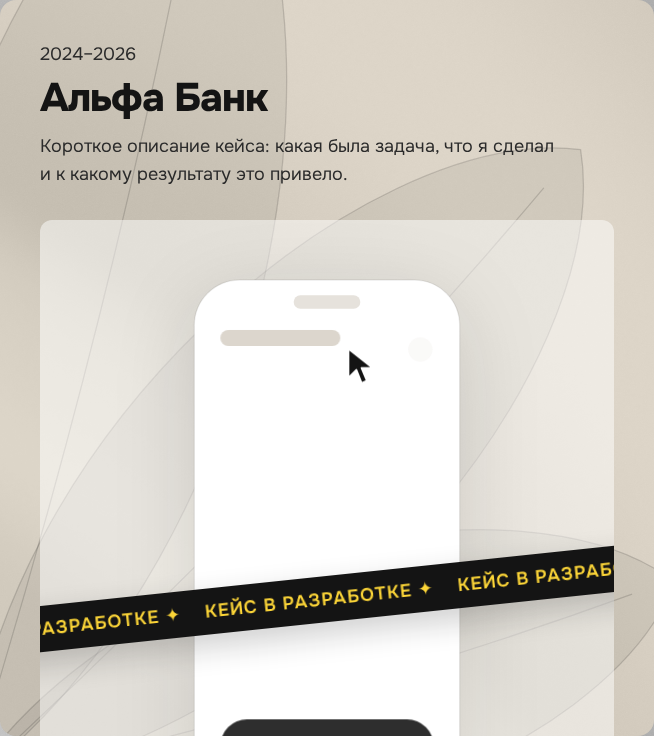
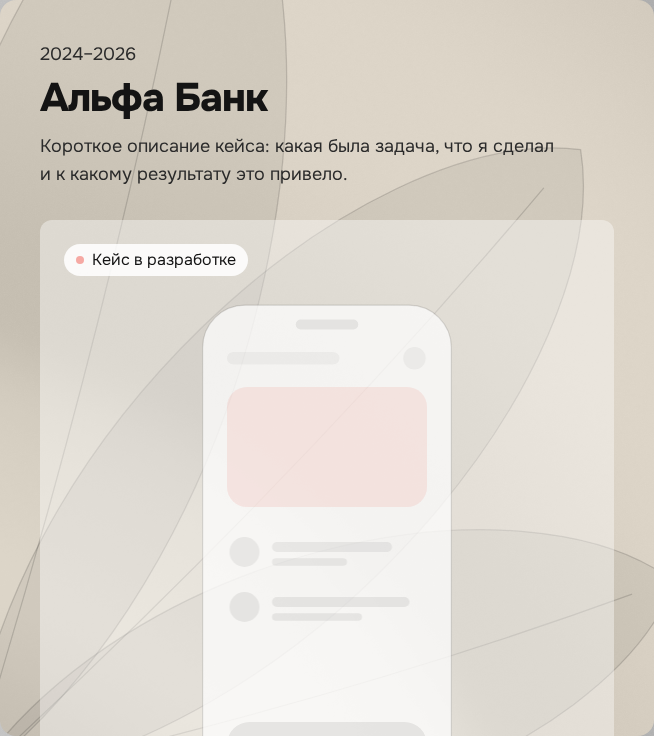
Заглушка плитки Альфа Банка скромнее; жёлтый маркер в «Обо мне»; Quantori: «Все столбцы синхронизированы»
Claude-Session: https://claude.ai/code/session_01DzwkKU7ghLdatqJxsHswd1

Changed region(s): [[0.0612, 0.3125, 0.948, 1.0]]

diff --git a/CLAUDE.md b/CLAUDE.md
@@ -194,16 +194,16 @@ pnpm deploy:yandex
 - Hero: заголовок «Продуктовый дизайнер и многое другое» / «Product designer and much more» — **первое слово перекидное** (проп `flip` у `Hero`, слова — `home.intro.flip` в `ui.ts` через «|»: RU Продуктовый → Senior UI/UX → Ведущий → Lead → Senior Product, EN Product → Senior UI/UX → Lead → Senior Product): каждые 2.6с слово переворачивается вверх гранью куба (`rotateX`, 0.7с), новое приходит снизу, ширина места под слово плавно подстраивается; «и многое другое» — всегда отдельной второй строкой (`.hero__title-line`), «дизайнер» — в первой строке рядом со словом, а если самый длинный вариант первой строки не помещается (1440, телефон) — «дизайнер» тоже своей строкой (`hero__title--stack`, ставит скрипт), поэтому строки не прыгают; высота заголовка — по самому длинному варианту (текст ниже не прыгает); для читалок в `h1` — исходное слово; при reduced motion — стоит) + подпись «Проектирую архитектуру и ежедневно работаю над продуктовыми задачами… от идеи и исследования до дизайна, прототипирования и кода» (`home.intro.*` в `ui.ts`; на мобиле блок hero `min-height: 100dvh` с отступом под шапку — если контент выше экрана, растёт вниз, а не заезжает под шапку), тени — одно семейство, интенсивность убавлена на 30%, затем ещё на 20%: заголовок `--hero-text-shadow` (0 4px 16px, чёрный 14.4% — потом +20%), подпись `--hero-lead-shadow` (та же, трижды по +20% — 20.8%), у чипсов тени нет (убрана по просьбе), портрет `--hero-portrait-shadow` (drop-shadow 0 10px 28px, 12%, по контуру круга и головы), логотип и планета в шапке — своя маленькая `--header-shadow` (drop-shadow 0 1px 3px, 16%, на всей прозрачной шапке), под подписью — чипсы с направлениями работы (`home.intro.chip.1–6`: Продуктовый дизайн, Построение процессов вокруг дизайна, Внедрение ИИ, Работа с аналитикой и конкурентами, Управление командой и повышение её эффективности, Разработка дизайн-систем) — чипс обычно в одну строку, текст переносится внутри таблетки только если она шире колонки (узкие экраны, `text-wrap: balance`): токены `--text-chip`, `--chip-pad-*`, `--chip-gap`; — **выбран белый вариант** (почти белая плотная таблетка `rgb(255 255 255 / 0.88)`, белая обводка 90%, тёмный текст `--color-text`, без тени; ширина блока чипсов до 52rem — «Работа с аналитикой…» и «Управление командой…» в одном ряду на экранах от ~1680px, уже — колонка физически уже); отклонены: прозрачные-стеклянные (первый вариант), цветной градиент, цветные обводки; растворяются вместе с текстом, прижат к левой линии `--gutter`, по вертикали — на 20px выше центра экрана (`top: -20px` у `.hero__content`, портрет остаётся по центру)
 - Второй слайд: фон hero липкий (`.hero__bg`, sticky) на оба слайда. Сцена скролла — в `Hero.astro` (ScrollTrigger, scrub). Длина сцены = путь плиток от старта (`--tiles-start` 100dvh, низ экрана) до финальной точки: верх плиток на `--tiles-final-top` (100px от верха экрана). Плитки (`src/components/Tiles.astro`, 2 × 2, на мобиле в колонку, пропорция `--tile-ratio` 4:4.5 (на мобиле 3:4.5), зазор `--tile-gap`: мобила 52px, планшет (768–1279) 72px, десктоп 100px, от линии до линии сетки; внутри — заголовок, подпись и условная картинка до нижнего края, проекты `tiles.1–4.title` в `ui.ts`: Альфа Банк / Alfa-Bank, Betting app, Quantori, Метр квадратный / Metr Kvadratny; подпись пока заглушка `tiles.placeholder.lead`, у Betting — своё описание `tiles.2.lead` (`TILE_LEADS` в `Tiles.astro`): «Выстроил дизайн-процесс и пересобрал ключевые revenue-сценарии — повысил конверсию в завершённую регистрацию и первое пополнение на 48% и 44% соответственно (относительный рост по графику: 55,11 → 81,76 и 21,67 → 31,11); в итогах кейса — «на 26,7 и 9,4 п. п. соответственно» (разница по графику)») подтягиваются по очереди слева направо (`STAGGER` 0.15 сцены между колонками; каждая следующая колонка стартует ниже на `COL_DROP` 240px; ждущая колонка держится на месте экрана) и проявляются: плашка (`.tiles__plate`) opacity 0.1 → 1, заливка — цвет плитки (`--tile-color-1…4`: крем #f8e8ce, мята #def5f0, пудра #fae9e3, лаванда #e8ebff) с 50% прозрачности (`--tile-bg-opacity`), у каждой плашки своя крупная абстрактная композиция «по мотивам» растений на всю плашку, уходит за края (`PRINTS` в `Tiles.astro`, все в стиле утверждённой плитки 2 — крупные листья с прожилками крест-накрест: 1 — веер из трёх листьев из левого нижнего угла, 2 — два листа крест-накрест (эталон), 3 — два листа из верхних углов, 4 — огромный лист по диагонали и второй поперёк; заливка `--tile-print-fill`, контур `--tile-print`). Мелкие повторяющиеся узоры не использовать — пользователь просил крупные мазки, без «детского сада»; содержимое (`.tiles__body`: заголовок, подпись, картинка) — с запаздыванием `BODY_LAG` и своим параллаксом `BODY_SHIFT`, opacity 0 → 1, в финале без прозрачности. Подтягивание, параллакс и проявление идут до самого финала сцены (`ALIGN` = 1): в финале плитки выровнены по верху на 100px. Прилипание (свой snap в `Hero.astro`, не `lenis/snap` — тот решает по недоехавшей позиции): после полной остановки скролла ряд плиток в пределах `SNAP_RANGE` (50% экрана) доводится верхом до 100px (0.9с, ease-out cubic); **hero тоже с доводкой**: между первым слайдом и первым рядом плиток скролл не останавливается — после остановки доезжает туда, куда крутили (вниз — к плиткам, вверх — к началу страницы), без ограничения `SNAP_RANGE`; снизу у `.tiles` запас места, чтобы и последний ряд мог встать на 100px, градиент полностью монохромный (`grayscale`). Текст hero реагирует на скролл с задержкой: первые `TEXT_HOLD` (15% экрана) стоит на месте, потом плавно трогается (ease power1.out, без рывка); растворяется (1 → 0) и исчезает, когда целиком уходит под шапку
 - **Картинки проектов в плитках** (`TILE_IMAGES` в `Tiles.astro`, ключ `tiles.N.title` → имя файла): вместо серой заглушки — `public/images/cases/<имя>-{600,1200}.webp` (с прозрачностью, `srcset`), на всю область картинки до нижнего края плитки, `object-fit: cover`, прижата к верху по центру. Пользователь присылает SVG через GitHub (`public/images`) — переименовываем латиницей, исходник кладём в `design/cases/` (в сборку не попадает; SVG бывают по 10 МБ из-за вшитых PNG), экспортируем в WebP (Chromium, 3x → 600 и 1200 px). Есть: Метр квадратный (`metr-kvadratny`, макет приложения; боковые экраны в исходнике были с прозрачностью 55% — по просьбе пользователя сделаны 100%)
-- **Заглушка «Кейс в разработке» в плитке без картинки** (сейчас — Альфа Банк; в `Tiles.astro`, класс `tiles__soon`): светлая подложка, телефон с отступом сверху (низ уходит под край), экран сам собирается по блокам (шапка, аватар, красная карта Альфы #ef3124, две строки, чёрная кнопка; 6с по кругу, шаг 0.45с, блоки «выпрыгивают»), курсор переходит от блока к блоку, поперёк — чёрная лента под −6° с бегущей жёлтой надписью «Кейс в разработке ✦» (`case.soon`); при reduced motion всё стоит. Подпись плитки Альфы — пока заглушка `tiles.placeholder.lead`.
+- **Заглушка «Кейс в разработке» в плитке без картинки** (сейчас — Альфа Банк; в `Tiles.astro`, класс `tiles__soon`; яркий вариант с лентой, курсором и красной картой пользователь отклонил — «клоунски», нужно скромнее и стильнее): светлая подложка, тонкий контур телефона (экран непрозрачный, низ уходит под край), блоки-заготовки бежевые полупрозрачные, мягко проявляются по очереди (2.4с, шаг 0.15с), карта — едва заметного альфовского оттенка (#ef3124 12%); в левом верхнем углу — белая метка «Кейс в разработке» (`case.soon`) с маленькой красной пульсирующей точкой; при reduced motion всё стоит. Подпись плитки Альфы — пока заглушка `tiles.placeholder.lead`.
 - **Годы работы над названием** во всех карточках (`.tiles__year`, кегль как у подписи `--text-tile-lead`). **Все карточки — по убыванию дат** (списки `tiles` и `more` в `Tiles.astro`): Альфа Банк 2024–2026, Betting 2023–2024, Quantori 2022–2023, Метр квадратный 2020–2022 → ниже MAPS.ME 2019–2020, BelkaCar 2018–2019, Revo Технологии / Revo Technologies 2017–2018, Hyperboloid Agency 2015–2017, Лига Ставок 2014–2015, LEXION development 2012–2014.
 - **Ещё 6 карточек под основными плитками** (`.tiles__more`, в том же `Tiles.astro`): год, название (`tiles.5–10.title`: BelkaCar, MAPS.ME, Revo Технологии, LEXION development, Лига Ставок, Hyperboloid Agency) и подпись (`tiles.5–10.lead` — короткие описания из резюме, все одной длины по строкам: 3 строки на 1728/1024/телефоне, 4 на 1440, RU и EN), без картинки; 3 в ряд на десктопе (≥1280), 2 на планшете, 1 на мобиле, зазор `--tile-gap`, ширина — от полей и зазора; высота не меньше ширины × `--tile-small-ratio` (0.75) и растёт под текст, ряды одной высоты; заголовок `--text-tile-small-title`. В сцене появления не участвуют (сцена берёт только `:scope > .tiles__item`), но доводка скролла работает и для их рядов. Наведение — как у основных плиток.
 - Бегущая строка с логотипами (`LOGOS` в `Tiles.astro`) — между рядами плиток (после второй; на мобиле между 2-й и 3-й), на всю ширину экрана, едет влево без конца (160с на цикл, края растворяются маской, при reduced motion стоит). Логотипы — SVG в `public/logos/` (пользователь загружает через GitHub, сеть окружения на сайты компаний не пускает; файлы переименованы латиницей, viewBox обрезан по содержимому), **в фирменных цветах** (монохром пользователь отклонил); высота строки — по самому высокому логотипу, логотипы не обрезаются; `scale` у каждого — оптическая подгонка высоты. Высота `--marquee-logo-h`, зазор `--marquee-gap`; отступ от строки до карточек сверху и снизу — половина `--tile-gap` (50/36/26px). Компании: Альфа Банк, Quantori, BelkaCar, MAPS.ME, Метр квадратный, Parity, LEXION development, 2ГИС, Лига Ставок, Brighty (только иконка, без надписи). Логотипы — ссылки на сайты компаний (`url` в `LOGOS`, новая вкладка; у MAPS.ME ссылки пока нет), строка встаёт на паузу только под курсором (и при фокусе с клавиатуры — `:focus-visible`; не `:focus-within`, иначе после клика и возврата со стороннего сайта строка стоит; после клика по логотипу ставится `data-resumed` — лента едет сразу, даже если курсор остался над ней, пауза под курсором снова включается после ухода курсора с ленты), логотип под курсором чуть увеличивается; в фокус с клавиатуры попадает только первый набор (повторы `tabindex=-1`)
 - **Контакты на слайде «Обо мне»** (справа от текста от 1024px, на узких — под текстом): **тёмная карточка** в цвет маркеров текста (чёрный 92%, скругление 24px, мягкая тень): подпись «Контакты» капсом, крупный телефон +7 916 294-65-26 (`tel:`, на наведении — жёлтый `--case-accent`), строка LinkedIn со стрелкой ↗ между тонкими линиями (https://www.linkedin.com/in/vadimpianov/), два QR — белые квадраты с наклоном ∓3°, на наведении выпрямляются и поднимаются; под ними «Telegram ↗» (@V_PIANOV → https://t.me/V_PIANOV) и «MAX ↗» (ссылка пользователя), стрелки сдвигаются на наведении; подпись «Нажмите на QR-код, чтобы открыть чат». QR — из картинок пользователя (`design/contacts/`), обрезаны до самого кода (без аватара и ника) → `public/images/contacts/*-qr.webp` 720 × 720. Заголовок «Обо мне» — белый.
-- **Слайд «Обо мне»** (`src/components/About.astro`, в слоте hero после плиток — на том же сером фоне): заголовок `about.title` (кегль `--text-display`) и 4 абзаца `about.p1–4` в `ui.ts` (RU — перевод текста пользователя, EN — его текст, вычитан), текст `--text-about`, ширина до 52rem; текст абзацев — белый, ключевые фразы — чёрным маркером (`<mark>`: плашка `--color-text`, белый текст, `box-decoration-break: clone`; варианты «тёмный текст + белый маркер» пользователь сменил), в строках размечены `**так**`. Как у плиток: верх слайда на `--tiles-final-top`, доводка скролла к нему (`data-snap` → точка в snap Hero.astro). **Фон снова цветной на «Обо мне»**: монохром фона — одна функция от скролла (`grayAt` в Hero.astro, `ScrollTrigger.create` + `bg.style.filter`): к плиткам 0 → 1, а с момента, когда слайд показывается снизу, 1 → 0 — полностью цветной, когда слайд встал на место
+- **Слайд «Обо мне»** (`src/components/About.astro`, в слоте hero после плиток — на том же сером фоне): заголовок `about.title` (кегль `--text-display`) и 4 абзаца `about.p1–4` в `ui.ts` (RU — перевод текста пользователя, EN — его текст, вычитан), текст `--text-about`, ширина до 52rem; текст абзацев — белый, ключевые фразы — жёлтым маркером (`<mark>`: плашка `--case-accent` #fcd537, чёрный текст `--color-text`, `box-decoration-break: clone`; до этого была чёрная плашка с белым текстом, ещё раньше — «тёмный текст + белый маркер»), в строках размечены `**так**`. Как у плиток: верх слайда на `--tiles-final-top`, доводка скролла к нему (`data-snap` → точка в snap Hero.astro). **Фон снова цветной на «Обо мне»**: монохром фона — одна функция от скролла (`grayAt` в Hero.astro, `ScrollTrigger.create` + `bg.style.filter`): к плиткам 0 → 1, а с момента, когда слайд показывается снизу, 1 → 0 — полностью цветной, когда слайд встал на место
 - **Картинки — с меткой версии** `?v=<md5 содержимого>` (`asset()` из `src/utils/asset.ts`: плитки, обложка и картинки кейса): зеркало Яндекса кэширует картинки на сутки, без метки после замены файла показывалась старая версия (так «Метр квадратный» оставался полупрозрачным). Новые картинки — тоже через `asset()`.
 - `site` в `astro.config.mjs` — заглушка, заменить на реальный домен
 
-Задеплоено (2026-10-05, последний — hero: вторая строка заголовка на месте; бегунок в левом поле; заглушка плитки Альфа Банка; + зеркало Яндекс): https://vadimpianov.pages.dev — `/ru/`, `/en/` отдают 200, `/` редиректит (302) по cookie/стране.
+Задеплоено (2026-10-05, последний — скромная заглушка плитки Альфа Банка, жёлтый маркер в «Обо мне», «Все столбцы синхронизированы»; + зеркало Яндекс): https://vadimpianov.pages.dev — `/ru/`, `/en/` отдают 200, `/` редиректит (302) по cookie/стране.
 
 ## Следующий шаг
 
